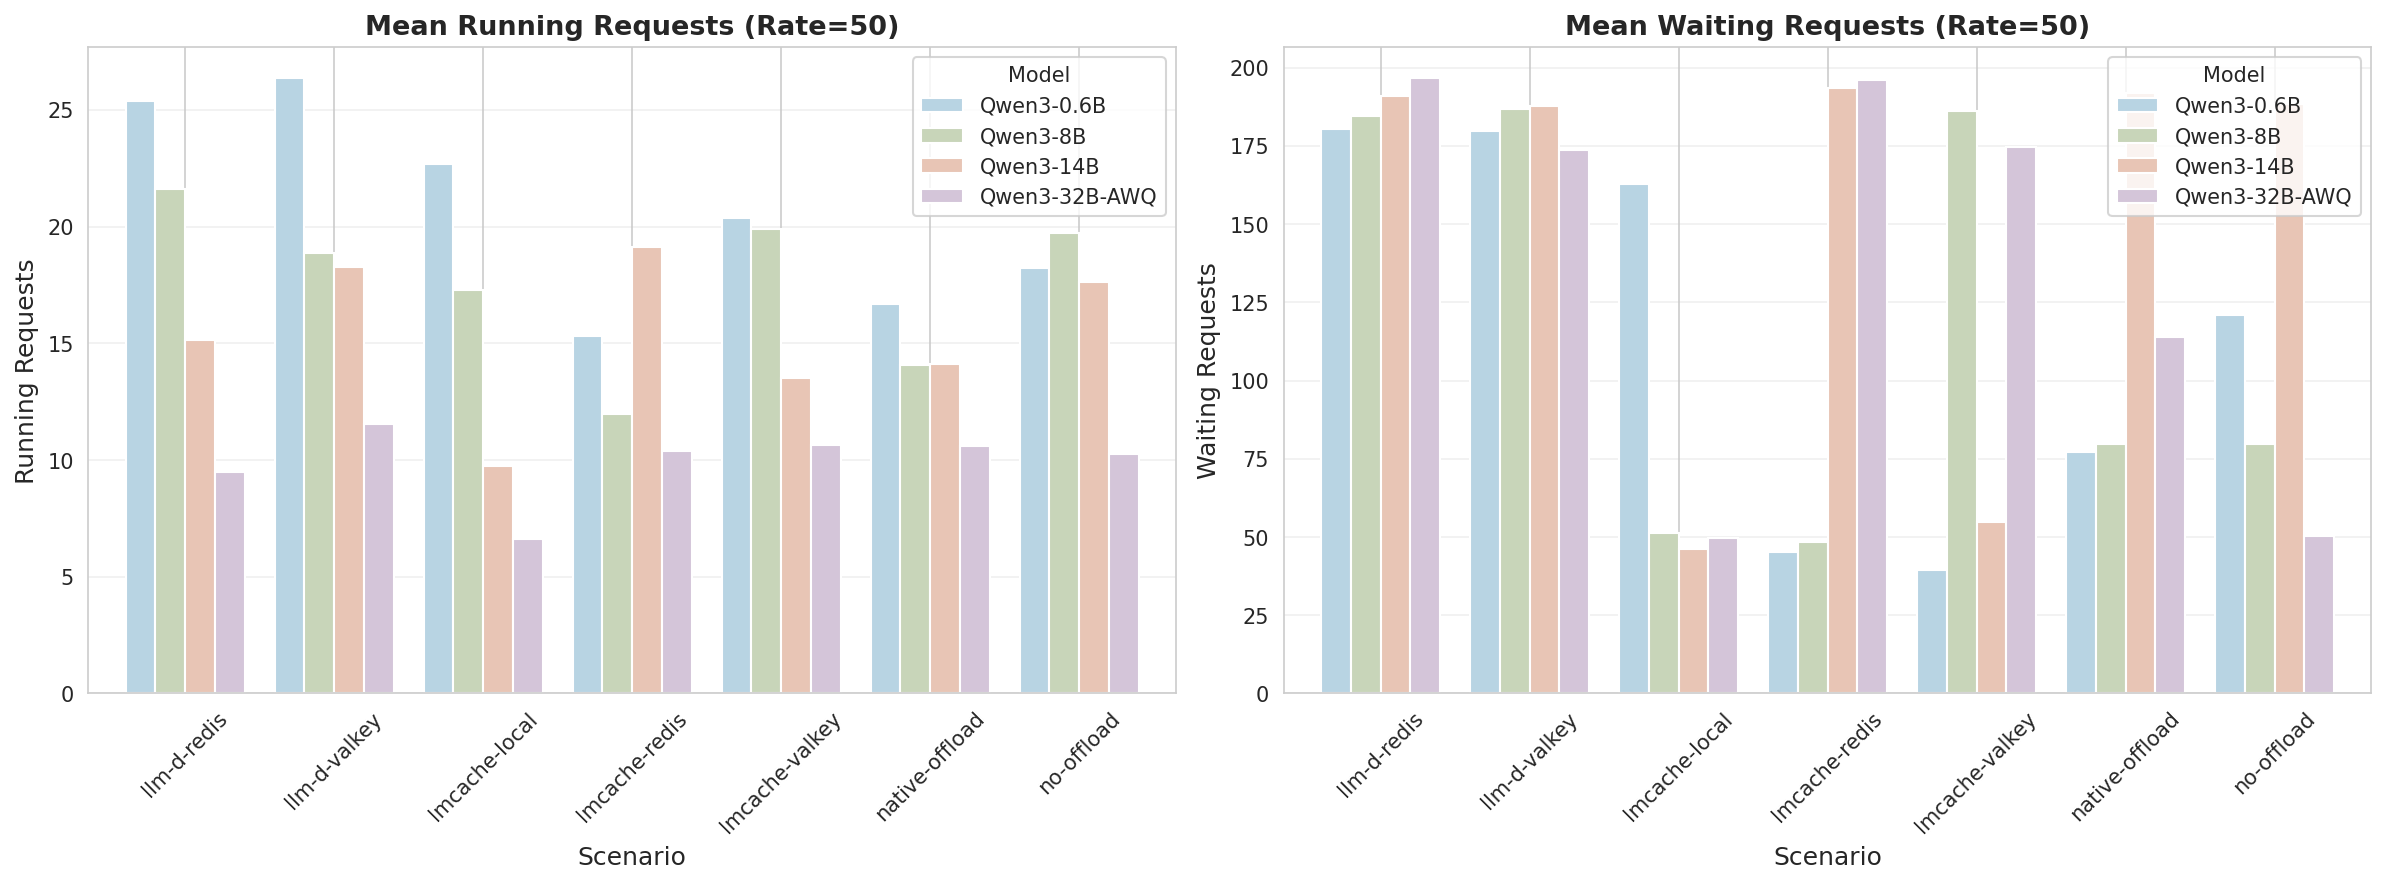
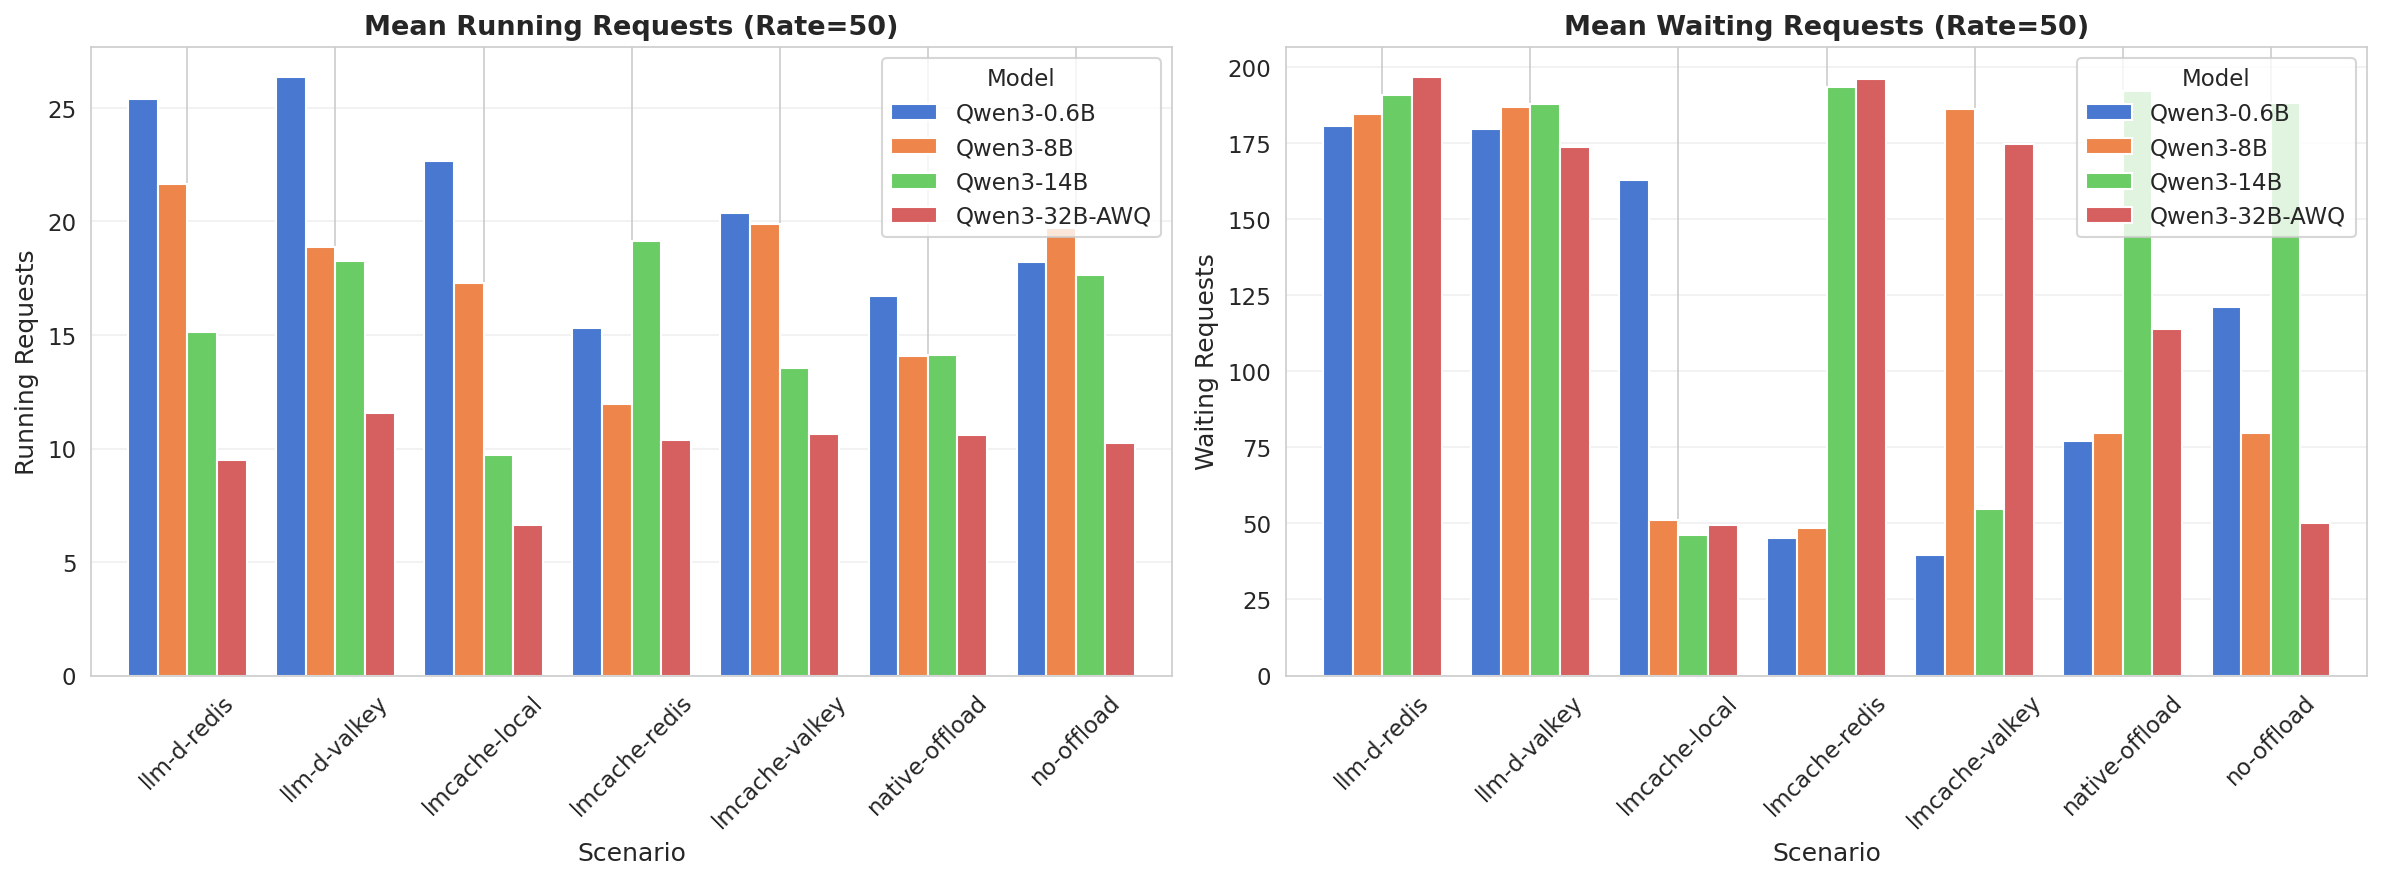
Add Claude skills to the context automatically, fix palettes

diff --git a/llm-d-kvcache-offload-eval/scripts/create-pcp-visualizations.py b/llm-d-kvcache-offload-eval/scripts/create-pcp-visualizations.py
@@ -9,11 +9,16 @@ import seaborn as sns
 from pathlib import Path
 import numpy as np
 
-# Set style
+# Set style per visualization-palette skill
 sns.set_style("whitegrid")
+sns.set_palette("muted")  # Qualitative palette for categorical data
 plt.rcParams['figure.figsize'] = (14, 8)
+plt.rcParams['font.size'] = 11
 
 ANALYSIS_DIR = Path('analysis')
+
+# Model ordering
+MODEL_ORDER = ['Qwen3-0.6B', 'Qwen3-8B', 'Qwen3-14B', 'Qwen3-32B-AWQ']
 
 def load_data():
     """Load PCP metrics and GuideLLM complete metrics."""
@@ -76,6 +81,10 @@ def plot_kv_cache_usage_by_scenario(df):
         aggfunc='mean'
     )
 
+    # Reorder columns by model order
+    pivot = pivot[[col for col in MODEL_ORDER if col in pivot.columns]]
+
+    # Plot with custom colors
     pivot.plot(kind='bar', ax=ax, width=0.8)
 
     ax.set_xlabel('Scenario', fontsize=12)
@@ -102,6 +111,10 @@ def plot_memory_usage_comparison(df):
         aggfunc='mean'
     )
 
+    # Reorder columns by model order
+    pivot = pivot[[col for col in MODEL_ORDER if col in pivot.columns]]
+
+    # Plot with custom colors
     pivot.plot(kind='bar', ax=ax, width=0.8)
 
     ax.set_xlabel('Scenario', fontsize=12)
@@ -128,6 +141,10 @@ def plot_request_queue_patterns(df):
         aggfunc='mean'
     )
 
+    # Reorder columns by model order
+    pivot_running = pivot_running[[col for col in MODEL_ORDER if col in pivot_running.columns]]
+
+    # Plot with custom colors
     pivot_running.plot(kind='bar', ax=ax1, width=0.8)
     ax1.set_xlabel('Scenario', fontsize=12)
     ax1.set_ylabel('Running Requests', fontsize=12)
@@ -144,6 +161,10 @@ def plot_request_queue_patterns(df):
         aggfunc='mean'
     )
 
+    # Reorder columns by model order
+    pivot_waiting = pivot_waiting[[col for col in MODEL_ORDER if col in pivot_waiting.columns]]
+
+    # Plot with custom colors
     pivot_waiting.plot(kind='bar', ax=ax2, width=0.8)
     ax2.set_xlabel('Scenario', fontsize=12)
     ax2.set_ylabel('Waiting Requests', fontsize=12)
@@ -172,6 +193,10 @@ def plot_prefix_cache_effectiveness(df):
         aggfunc='mean'
     )
 
+    # Reorder columns by model order
+    pivot = pivot[[col for col in MODEL_ORDER if col in pivot.columns]]
+
+    # Plot with custom colors
     pivot.plot(kind='bar', ax=ax, width=0.8)
 
     ax.set_xlabel('Scenario', fontsize=12)
@@ -270,7 +295,6 @@ def main():
     plot_memory_usage_comparison(df)
     plot_request_queue_patterns(df)
     plot_prefix_cache_effectiveness(df)
-    create_correlation_heatmap(df)
 
     # Generate summary stats
     print("\nGenerating summary statistics...")

diff --git a/llm-d-kvcache-offload-eval/scripts/visualize-percpu-saturation.py b/llm-d-kvcache-offload-eval/scripts/visualize-percpu-saturation.py
@@ -9,9 +9,11 @@ import seaborn as sns
 from pathlib import Path
 import numpy as np
 
-# Set style
+# Set style per visualization-palette skill
 sns.set_style("whitegrid")
+sns.set_palette("muted")  # Qualitative palette for categorical data
 plt.rcParams['figure.figsize'] = (14, 8)
+plt.rcParams['font.size'] = 11
 
 ANALYSIS_DIR = Path('analysis')
 
@@ -93,19 +95,17 @@ def plot_avg_vs_max_cpu(df):
     """Scatter plot showing average CPU vs max CPU utilization."""
     fig, ax = plt.subplots(figsize=(12, 8))
 
-    # Group by scenario for colors
-    scenarios = df['scenario'].unique()
-    colors = sns.color_palette("husl", len(scenarios))
+    # Group by scenario
+    scenarios = sorted(df['scenario'].unique())
 
-    for scenario, color in zip(scenarios, colors):
+    for scenario in scenarios:
         scenario_df = df[df['scenario'] == scenario]
         ax.scatter(
             scenario_df['global_mean_user'],
             scenario_df['max_cpu_mean_user'],
             label=scenario,
             alpha=0.7,
-            s=100,
-            color=color
+            s=100
         )
 
     # Add diagonal reference line (where avg = max)

diff --git a/llm-d-kvcache-offload-eval/scripts/comprehensive-analysis.py b/llm-d-kvcache-offload-eval/scripts/comprehensive-analysis.py
@@ -35,10 +35,11 @@ MODELS = [
 # Model ordering for plots (already in correct order)
 MODEL_ORDER = MODELS
 
-# Set plotting style
-sns.set_theme(style="whitegrid")
-plt.rcParams['figure.figsize'] = (12, 6)
-plt.rcParams['font.size'] = 10
+# Set plotting style per visualization-palette skill
+sns.set_style("whitegrid")
+sns.set_palette("muted")  # Qualitative palette for categorical data
+plt.rcParams['figure.figsize'] = (14, 8)
+plt.rcParams['font.size'] = 11
 
 def decompress_zstd(file_path):
     """Decompress zstd file and return JSON data."""

diff --git a/CLAUDE.md b/CLAUDE.md
@@ -45,3 +45,19 @@ explaining the results of the benchmarks.  At the end of each session in
 which a report is created, always consider what might have been done to
 improve the process for the human analyst - suggest new tools, additional
 metrics, and alternative benchmarking strategies to support the goal.
+
+## Project Standards
+
+This repository has established standards documented in `.claude/skills/`:
+
+- **visualization-palette**: All visualizations must use seaborn's "muted" palette for categorical data, "magma" for heatmaps, and standard figure sizes (14x8, font size 11). Consult `.claude/skills/visualization-palette/SKILL.md` when creating any matplotlib/seaborn visualizations.
+
+- **technical-report-writing**: Guidelines for professional, measured technical writing. Consult `.claude/skills/technical-report-writing/SKILL.md` when writing or updating reports.
+
+- **pcp-benchmark-analysis**: Best practices for analyzing PCP archives and correlating system metrics with benchmark results. Consult `.claude/skills/pcp-benchmark-analysis/SKILL.md` when working with Performance Co-Pilot data.
+
+- **data-validation-checklist**: Validation steps to ensure data quality and consistency. Consult `.claude/skills/data-validation-checklist/SKILL.md` before finalizing analysis.
+
+- **repo-cleanliness**: Standards for maintaining clean repository structure. Consult `.claude/skills/repo-cleanliness/SKILL.md` when creating new files or organizing results.
+
+Always review the relevant skill documentation before starting work in these areas.

diff --git a/llm-d-kvcache-offload-eval/REPORT.md b/llm-d-kvcache-offload-eval/REPORT.md
@@ -479,7 +479,7 @@ This workload represents a **worst-case scenario** for cache management, making 
 
 ### Understanding the 14B Model Performance
 
-The 14B model's +11-13% throughput improvement with CPU offload (LMCache) stands in stark contrast to all other models showing degradation. This warrants deeper investigation to understand the underlying mechanisms.
+The 14B model's +11-13% throughput improvement with CPU offload (LMCache) stands in contrast to all other models showing degradation. This warrants deeper investigation to understand the underlying mechanisms.
 
 **Memory Pressure Sweet Spot**
 
